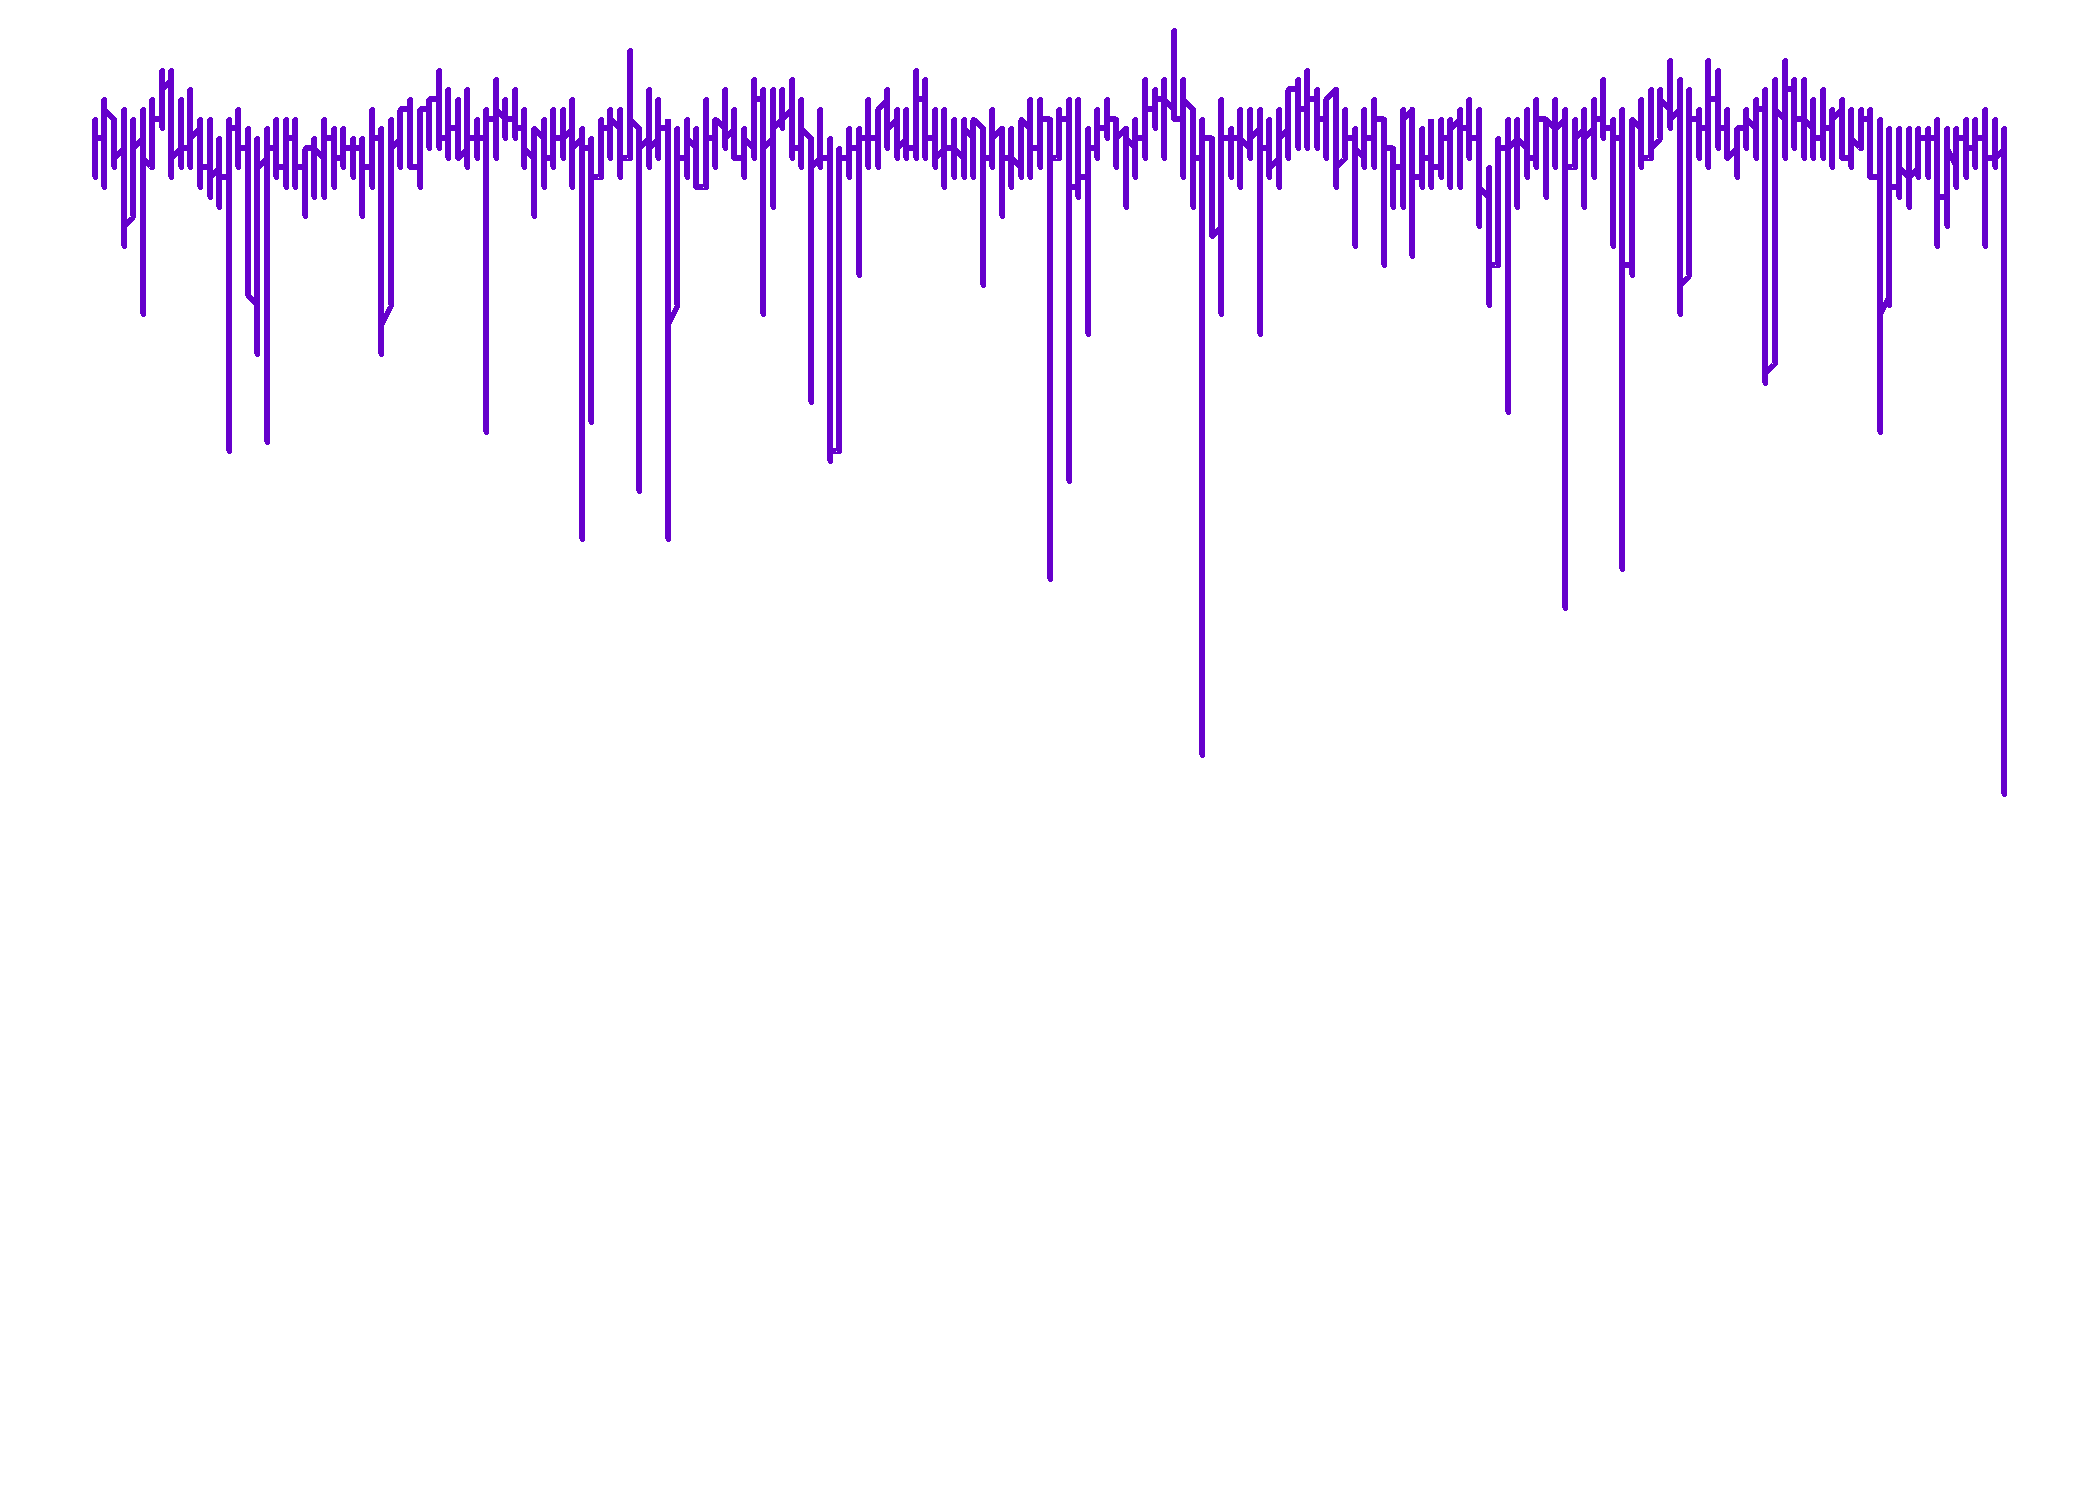
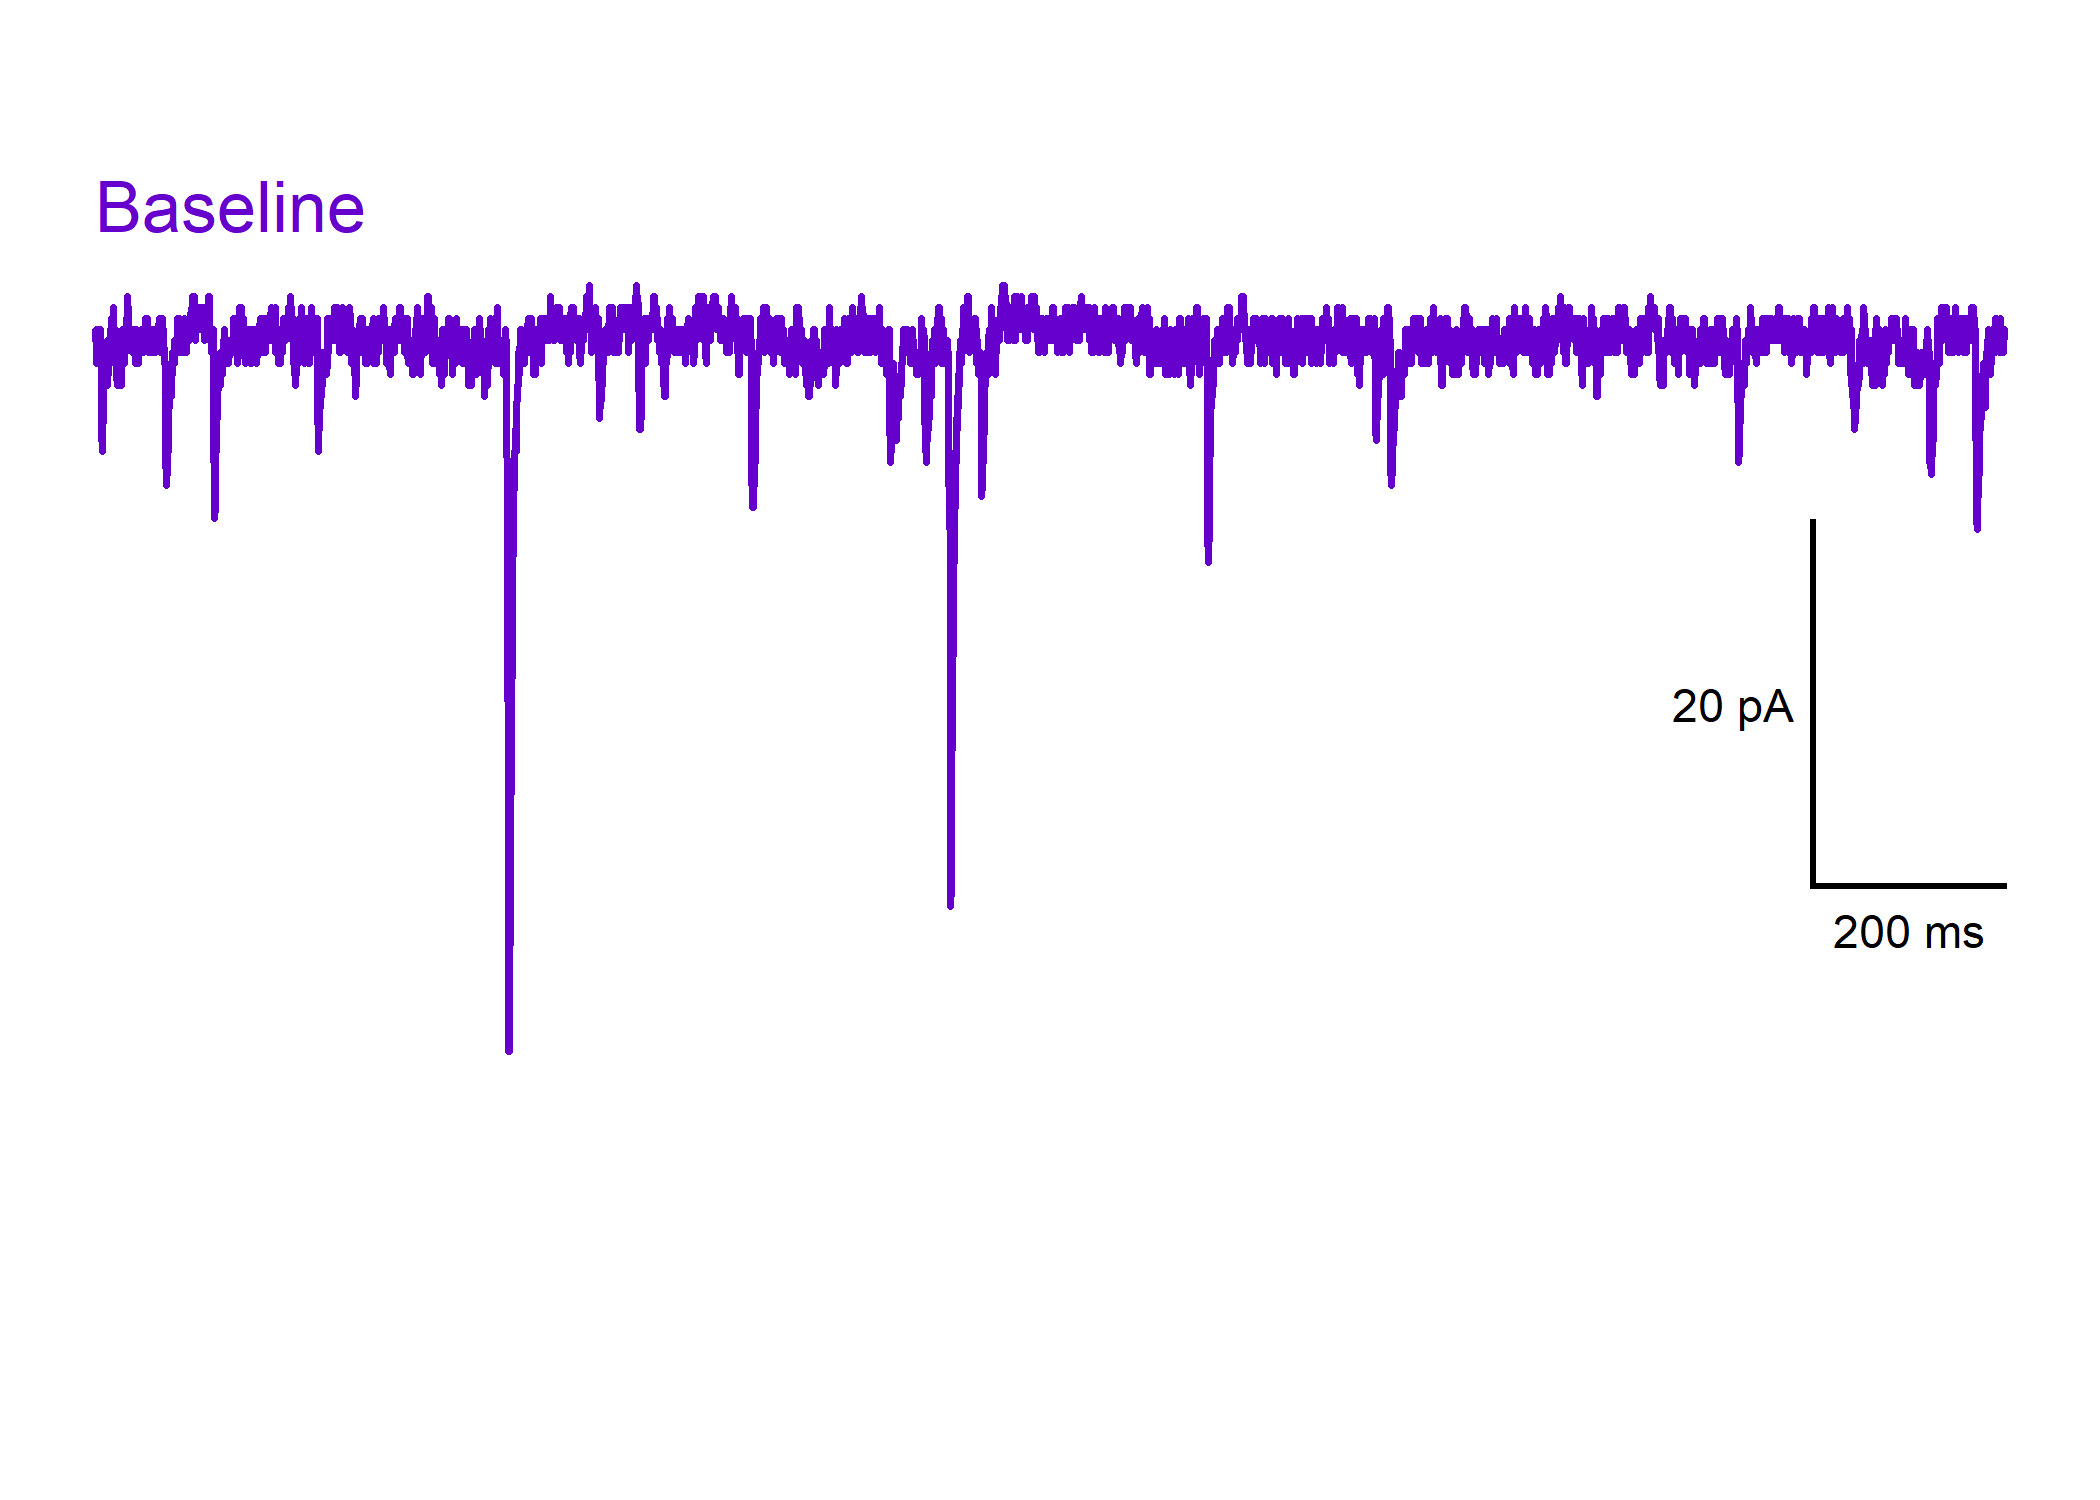
Updated README

Changed region(s): [[0.031, 0.0307, 0.9595, 0.7053], [0.8667, 0.5827, 0.9595, 0.644], [0.8048, 0.46, 0.8667, 0.4907]]

diff --git a/README.md b/README.md
@@ -81,12 +81,12 @@ a raw Axon Binary File (.ABF):
 plot_spontaneous_current_trace(
   data = sample_abf_file,
   plot_colour = "#6600cc",
-  include_scale_bar = "yes",
+  plot_category = 2,
+  plot_treatment = "Control",
+  state = "Baseline",
   plot_episode = "epi1",
-  scale_bar_x_length = 1,
-  scale_bar_y_length = 10,
-  plot_x_min = 1,
-  plot_x_max = 3
+  trace_annotation = "Baseline",
+  geom_text_colour = "#6600cc"
 )
 ```
 
